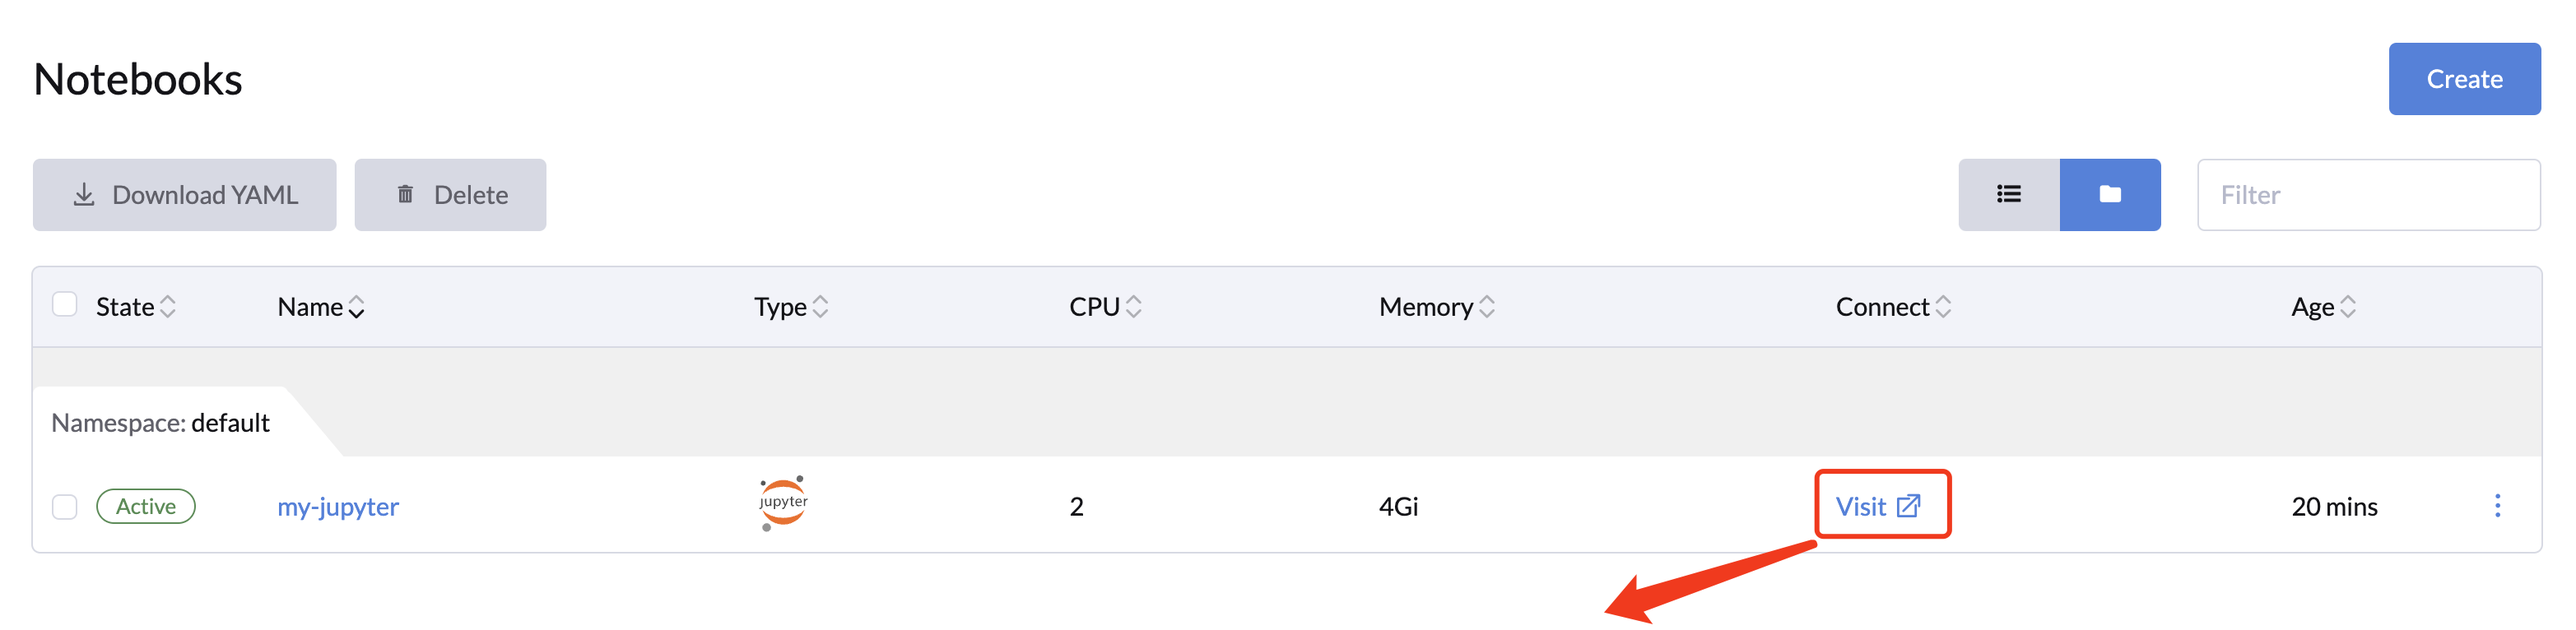
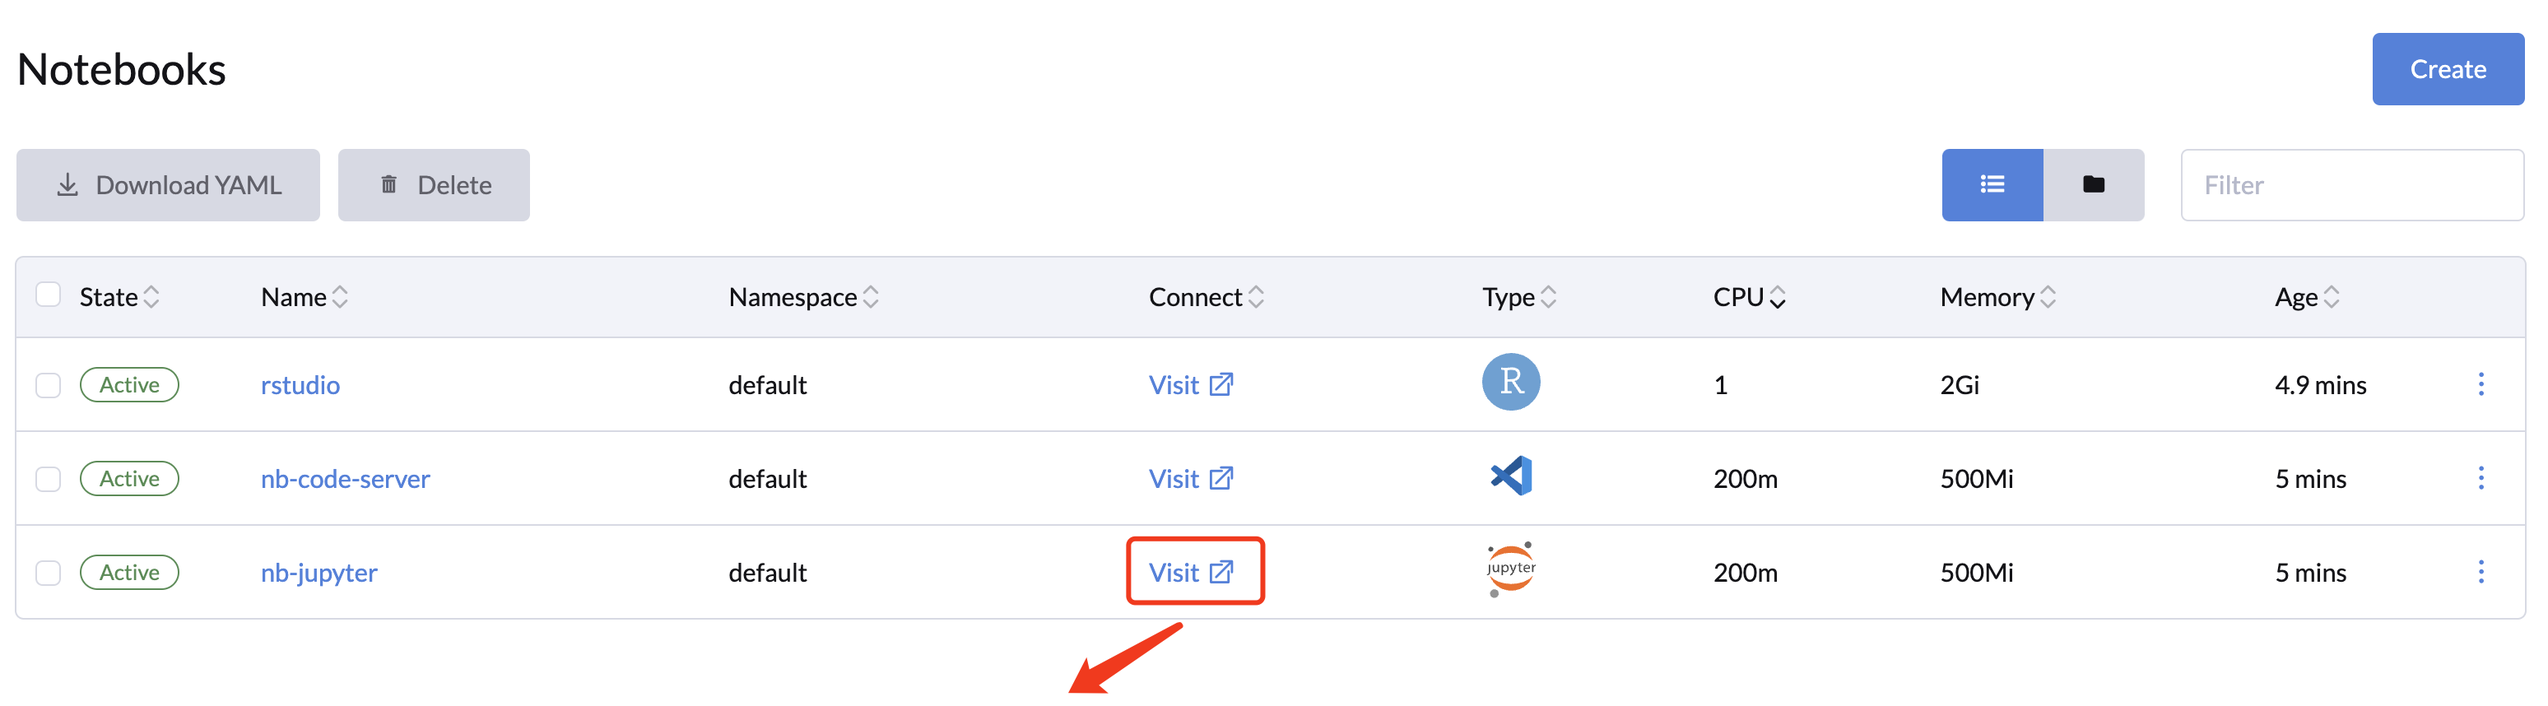
update notebook pages

diff --git a/src/css/custom.css b/src/css/custom.css
@@ -58,9 +58,9 @@
   }
 }
 
-.container {
-  padding: 3rem 0 !important;
-}
+/*.container {*/
+/*  padding: 3rem 0 !important;*/
+/*}*/
 
 .footer .container {
   background-image: url('/img/pattern-lg-light.svg');
@@ -106,11 +106,7 @@ img[alt=mlvsllm] {
   margin-right: auto;
 }
 
-.feature-svg:last-child {
+.feature-svg {
   width: 200px;
   height: 200px;
-}
-
-.feature-svg:last-child {
-  /*padding: 20px;*/
 }

diff --git a/docs/user_guide/llm_management/notebooks.md b/docs/user_guide/llm_management/notebooks.md
@@ -1,0 +1,42 @@
+---
+sidebar_position: 2
+title: Notebooks
+---
+
+Notebooks offer a way to run lightweight web-based development environments within your LLMOS cluster, where you can run interactive code, data analysis, and machine learning tasks.
+
+With notebooks, you can easily create and manage lightweight notebook environments, providing a seamless and efficient development experience. Here's what you can do with notebooks:
+
+- **Native Application Support**: Seamlessly run native JupyterLab, RStudio, and Visual Studio Code (code-server) with an independent environment.
+- **Cluster-based Notebooks**: Create and manage lightweight notebook containers directly in the cluster, eliminating the need to run them locally on your latop.
+- **Standardized Notebook Images**: Administrators can provide pre-configured notebook images with required packages pre-installed, ensuring consistency across the organization and teams.
+- **Access Control**: Notebook access is managed through RBAC, allowing for streamlined and secure sharing of notebooks across the organization or team.
+
+![Notebooks](/img/docs/notebooks.png)
+
+### Create a Notebook
+Getting started with notebooks is easy.
+
+1. Open the LLMOS Dashboard in your browser and go to the **LLM Management > Notebooks** page.
+1. Click **Create** in the top right corner.
+1. Select notebook **type** and the image you want to use for your notebook server.
+1. Specify the name, namespace, resources and persistent storage(volume) setting of your notebook server.
+   ![notebook-create](/img/docs/notebook-create-general.png)
+1. Click **Visit** to visiting your notebook server once it has been provisioned.
+   ![notebook-visit](/img/docs/notebook-visit.png)
+
+  ![notebook-juypter](/img/docs/notebook-jupyter.png)
+   - the default workspace is `/home/jovyan`
+
+### Notebook Images
+LLMOS currently provides three types of notebook images for you to choose from, but you can easily add your own images via the `default-notebook-images` setting:
+- [JupyterLab](https://github.com/jupyterlab/jupyterlab)
+- [Visual Studio Code \(code-server\)](https://github.com/coder/code-server)
+- [RStudio](https://github.com/rstudio/rstudio)
+
+:::note
+Packages installed by users after spawning the notebook server will only last the lifetime of the Pod restart, to ensure packages are preserved throughout Pod restarts you will need to either:
+
+- Build custom images that include them, or
+- Ensure they are installed in a persistent volume backed directory
+:::

diff --git a/docs/user_guide/llm_management/serve.md b/docs/user_guide/llm_management/serve.md
@@ -1,0 +1,67 @@
+---
+sidebar_position: 2
+title: Model Serving
+---
+
+LLMOS helps you to create a model serving through the `ModelServe` resource, which is a intuitive interface to specify a model serving configurations
+(resource requirements, setup commands, run commands, file mounts, storage mounts, and so on).
+
+LLMOS provides a intuitive interface to create a model serving through the `ModelService` resource. It supports the following features:
+
+
+### Environment Variables
+
+### Example YAML
+```yaml
+# modelservice yaml file
+apiVersion: ml.llmos.ai/v1
+kind: ModelService
+metadata:
+  name: gemma-2-9b-it
+spec:
+  replicas: 1
+  model: google/gemma-2-9b-it
+  updateStrategy:
+    type: RollingUpdate
+  template:
+    spec:
+      runtimeClassName: nvidia
+      containers:
+        - name: server
+          image: vllm/vllm-openai:latest
+          ports:
+            - containerPort: 8000
+              protocol: TCP
+              name: http
+          env:
+            - name: HUGGING_FACE_HUB_TOKEN
+              valueFrom:
+                secretKeyRef:
+                  name: huggingface-token
+                  key: token
+          volumeMounts:
+            - mountPath: /dev/shm
+              name: memory-cache
+            - mountPath: /root/.cache/huggingface
+              name: hf-dir
+          resources:
+            limits:
+              nvidia.com/gpu: "1"
+      volumes:
+        - emptyDir:
+            medium: Memory
+          name: memory-cache
+        - name: hf-dir
+          persistentVolumeClaim:
+            claimName: gemma-2-9b-it-hf-dir # keep the name to be consistent with the spec.volumes name
+  volumes:
+    - name: gemma-2-9b-it-hf-dir
+      spec:
+        accessModes:
+          - ReadWriteOnce
+        resources:
+          requests:
+            storage: 20Gi
+  serviceType: ClusterIP
+```
+

diff --git a/docs/user_guide/nodes.md b/docs/user_guide/nodes.md
@@ -7,7 +7,7 @@ LLMOS manages your workload by deploying containers into Pods to run on Nodes. A
 
 The management node hosts both system components, such as the API server, controller-manager, and etcd, as well as user workloads. In contrast, the worker node is dedicated primarily to running user workloads and only the minimal system-required DaemonSets.
 
-Users can view and manage the nodes in the cluster through the **ML Management > Nodes** page.
+Users can view and manage the nodes in the cluster through the **LLM Management > Nodes** page.
 
 
 
